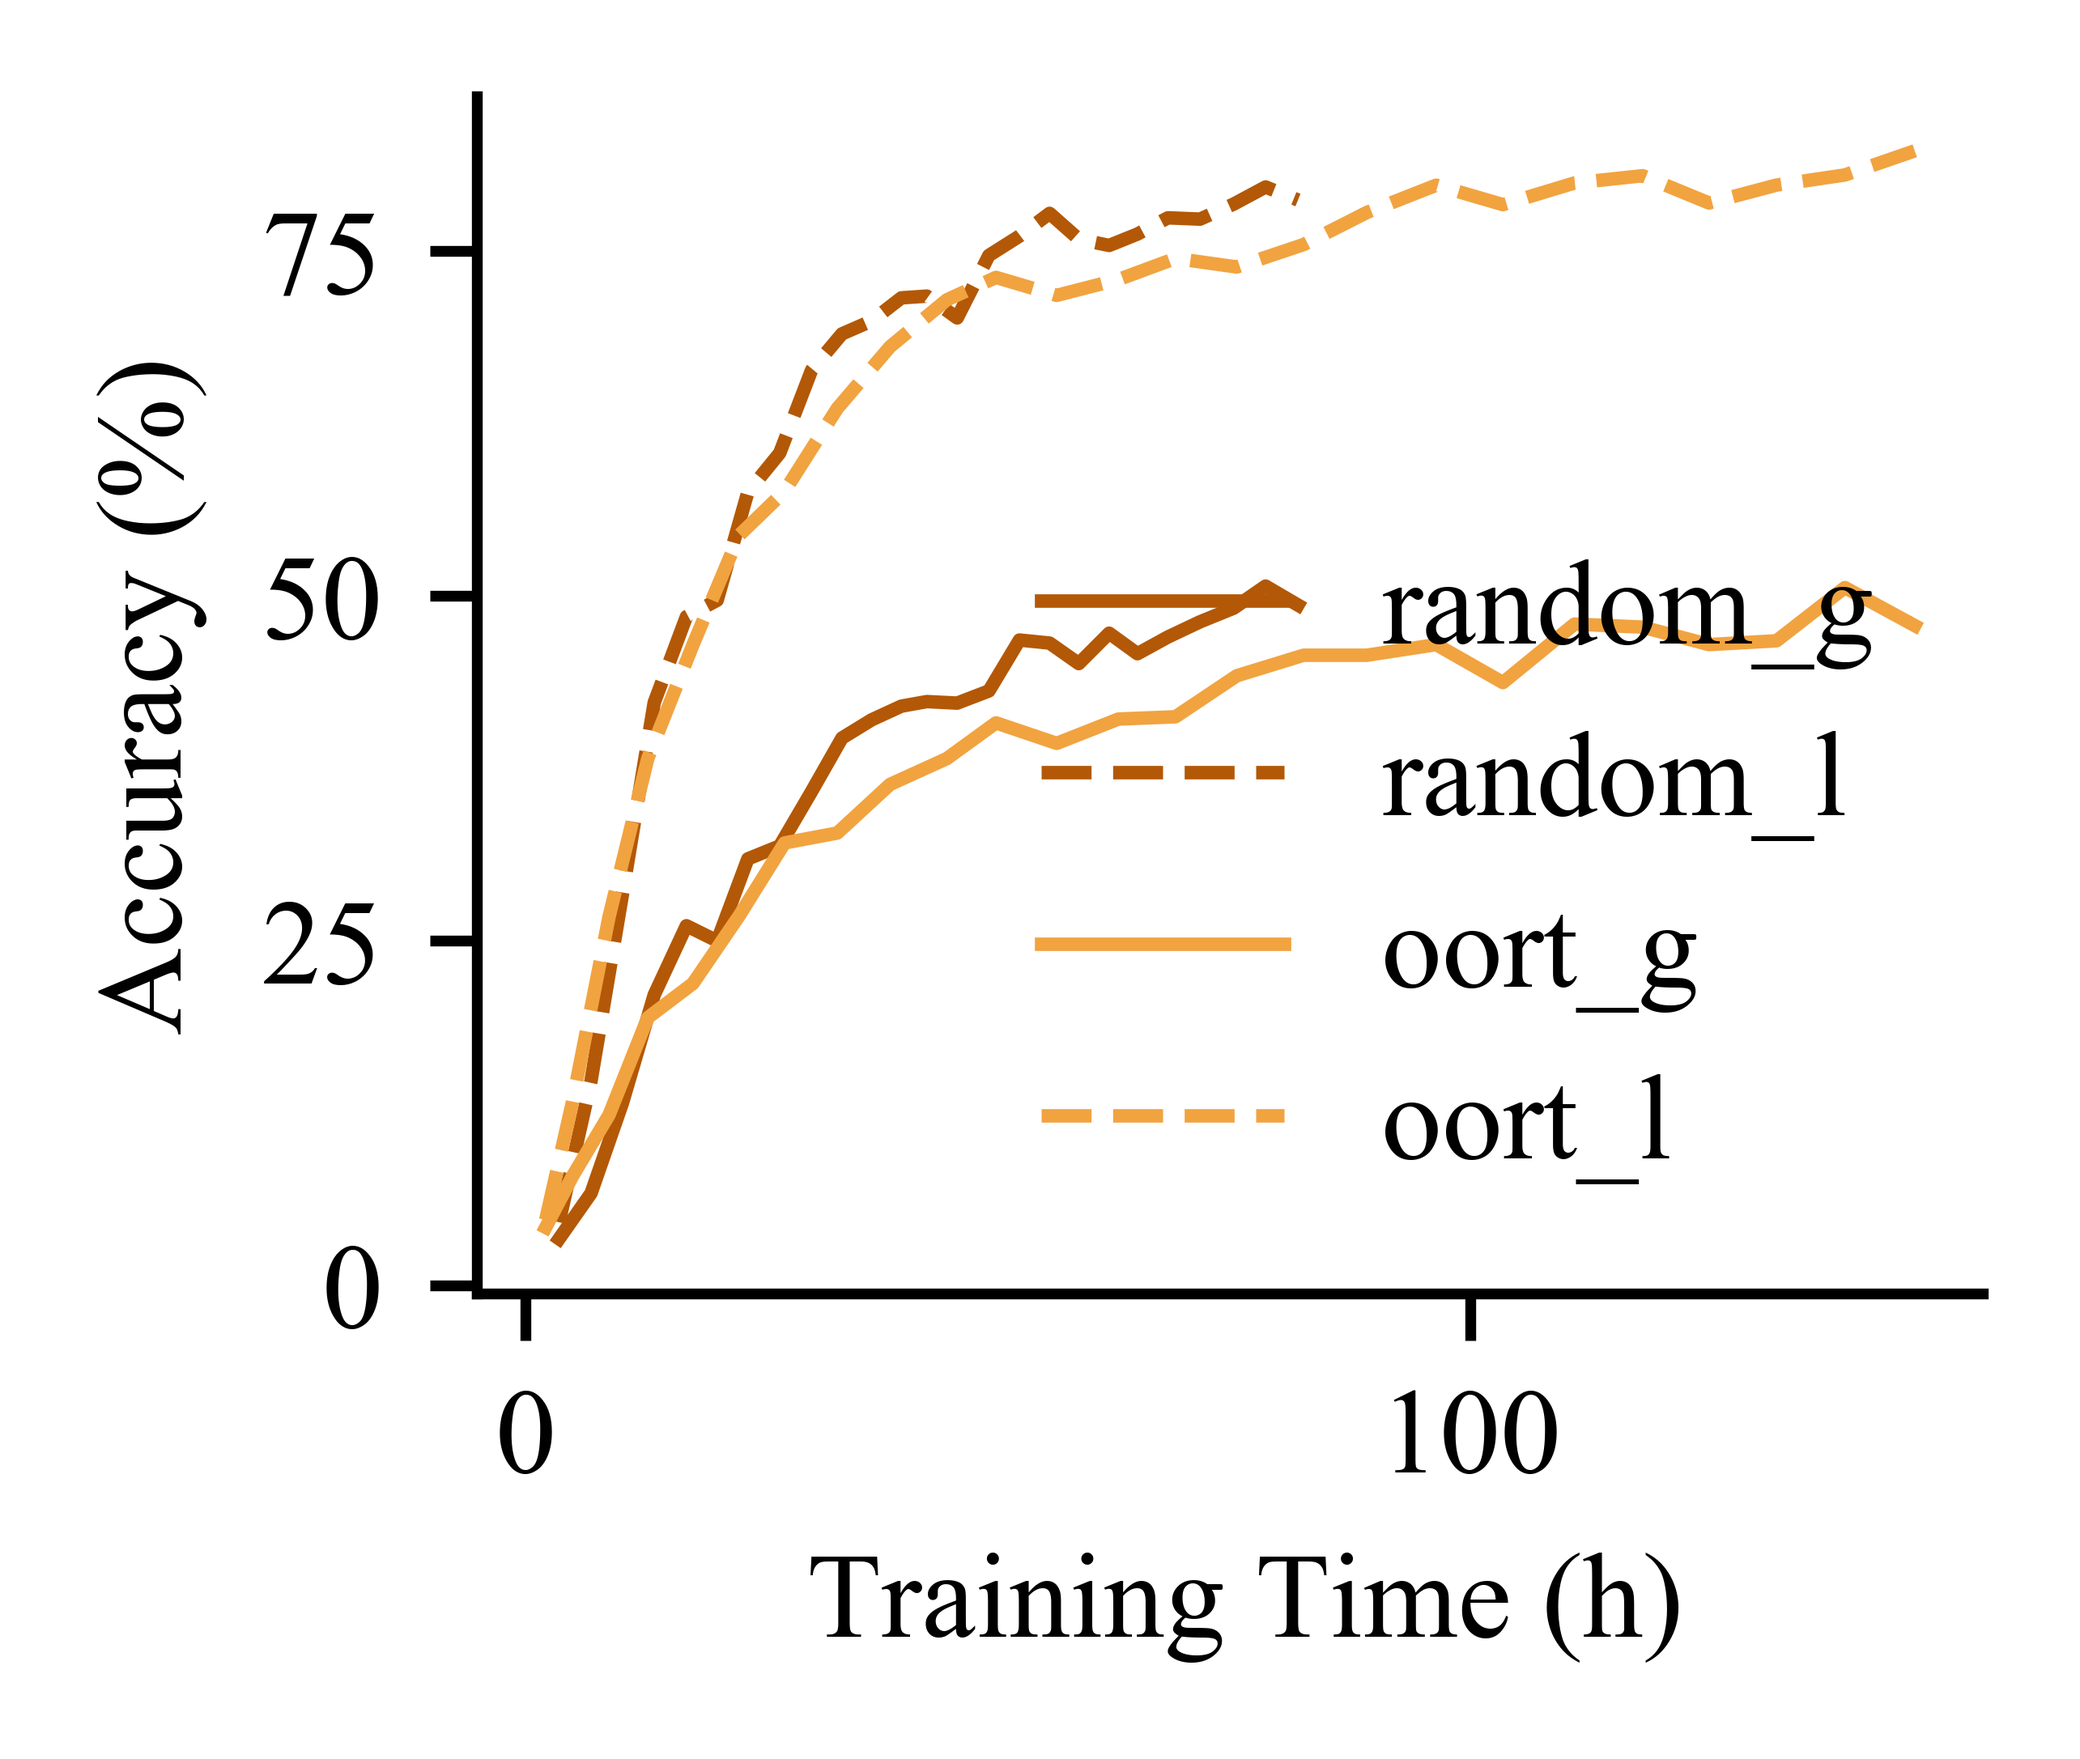
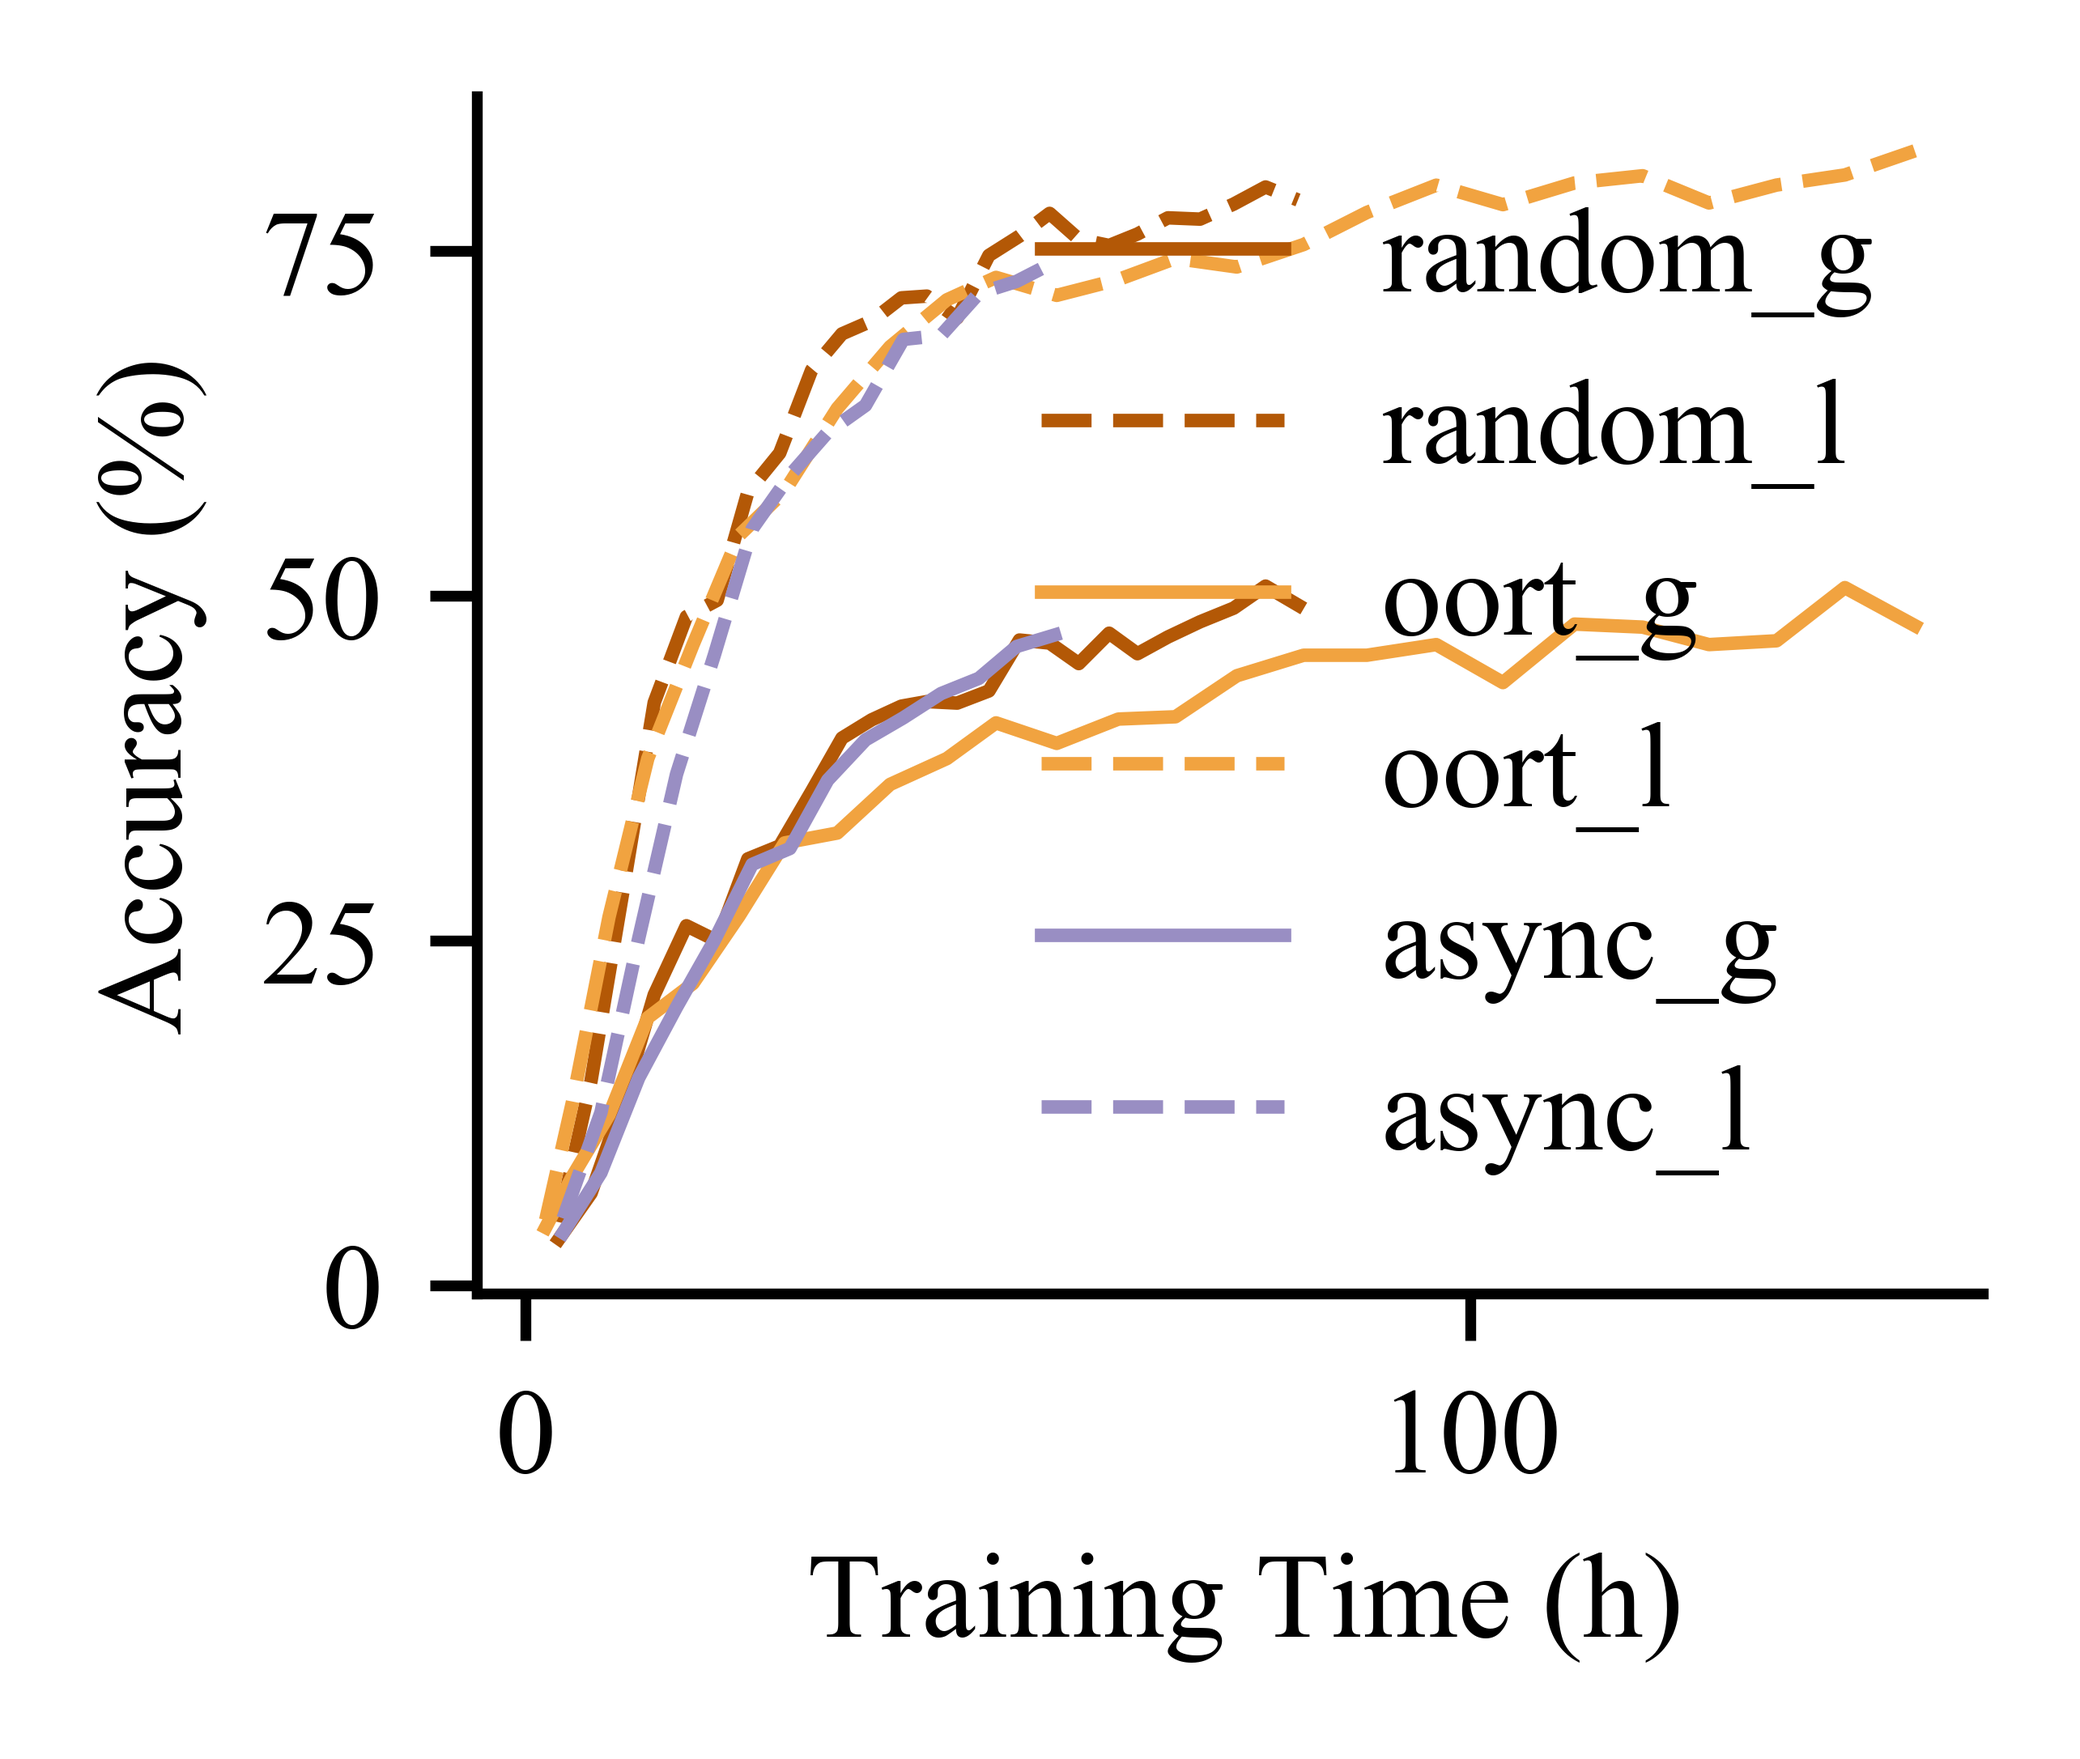
ns

diff --git a/core/evals/my_perf.py b/core/evals/my_perf.py
@@ -92,11 +92,11 @@ def plot_line_2(datas, xs, linelabels=None, label=None, y_label="CDF", name="my_
     plt.savefig(name, bbox_inches='tight')
 
 def run(task_prefix):
-    personalized = "ditto" # "meta" or "none" or "ditto"
+    personalized = "meta" # "meta" or "none" or "ditto"
     task_dict = {
         f"random_{personalized}_all_test": "random",
         f"oort_{personalized}_all_test": "oort",
-        # f"async_{personalized}_all_test": "async"
+        f"async_{personalized}_all_test_60": "async"
     }
 
     # x-axis
